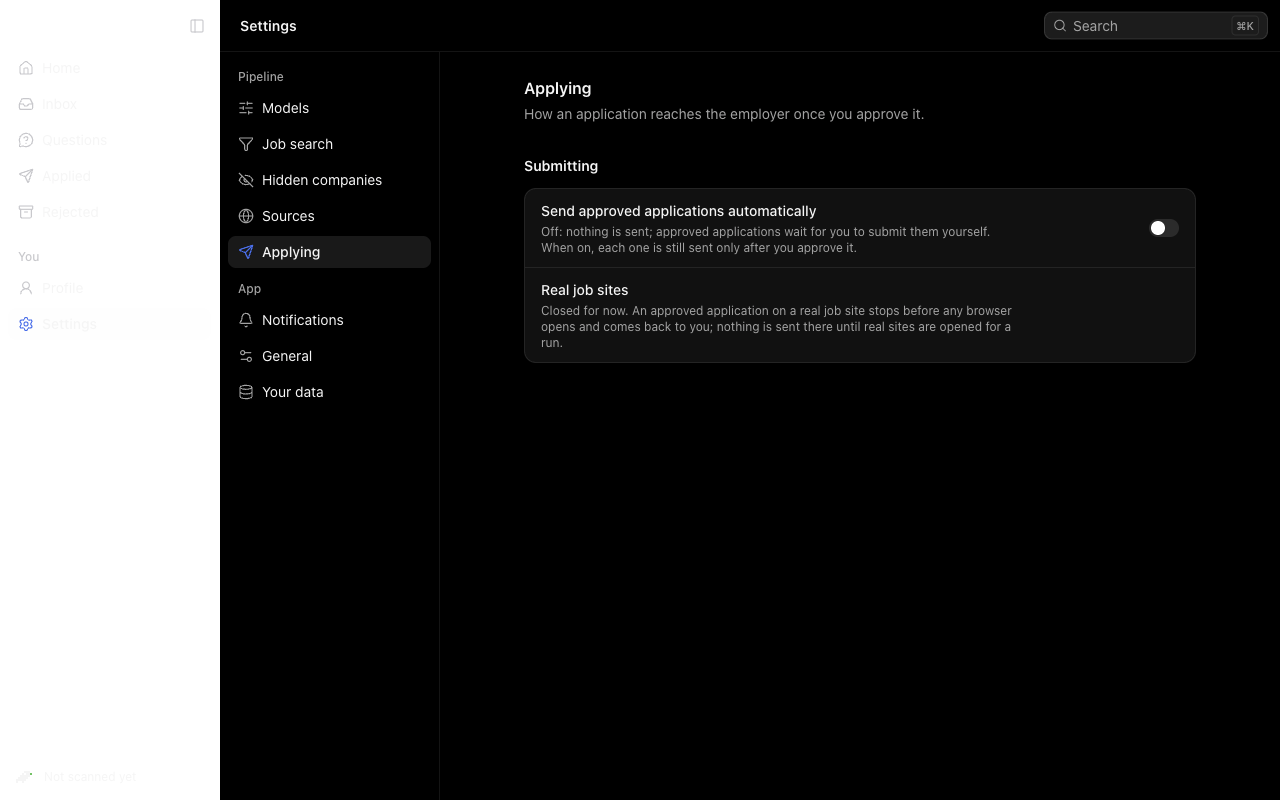
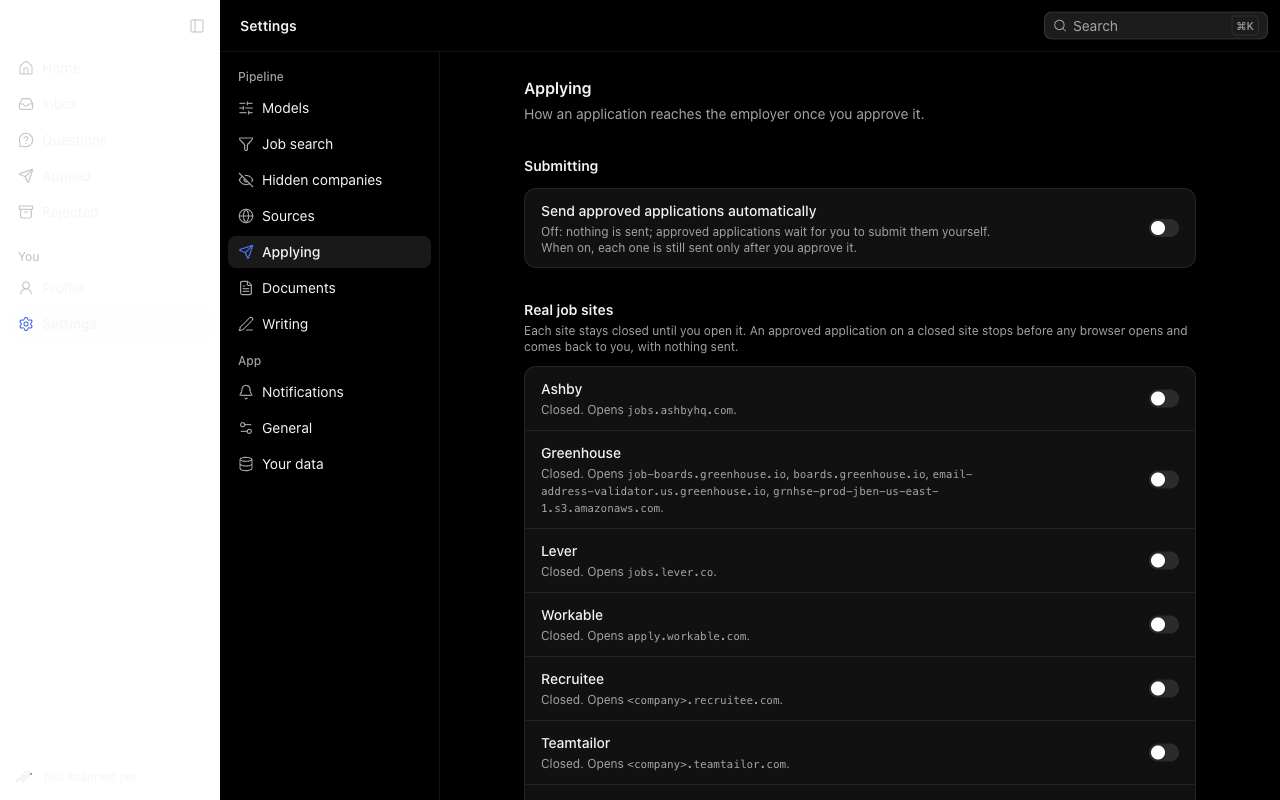
docs: record per-board opening of real job sites (plan step 8 preparation)

diff --git a/docs/decisions.md b/docs/decisions.md
@@ -1157,3 +1157,19 @@ form was submitted.
 | Retry, Got the email, I submitted this and "It didn't go through" name the attempt the page showed (`currentAttempt` on the application: the unresolved attempt, else the latest that is not a dry run; null when there is none). The db compares it under the application's lock in the same transaction that resolves or retries, and changes only that attempt; a different one is refused with "This changed since you opened it; look again." (`StaleAttemptError`, a 409), and the page reads again with the box unticked. The router folds the attempt into the idempotency key, so the same click delivered twice is one action and a key reused for another attempt is not a repeat | A delayed confirmation resolved whichever attempt was unresolved by then: one meant for attempt 1 marked attempt 2 not sent and sent it back to applying, and a stale Got the email marked a newer attempt submitted |
 | Finish it yourself and the hand-off's link no longer hand main a URL. The page asks to open "the form for application X, attempt N" (`desktop.openApplicationForm`); the worker (`worker/links.ts`) resolves the stored form for the session's user (the attempt's URL, else the form the hand-off names), and db `formLinkAttempt` checks under the lock that the application is approved or stopped, that N is still the current attempt, and that a click on it that may have sent the application (sent, check your email; outcome unknown) was recorded as not gone through first; main opens only an http(s) link. Ticking "It didn't go through" and pressing Finish it yourself records it (`submission.confirmNotSent`, the attempt becomes not sent) before the form opens; the stop sheet then reads "It didn't go through" (`confirmed_not_sent`: Finish it yourself, I submitted this, Retry). So the sent attempt is recorded not sent when Finish it yourself opens the form, not later at I submitted this (`markSubmitted` `confirmedNotSent` still covers a click with nothing recorded). Refusals reach the page in the worker's words (the preload drops Electron's "Error invoking remote method" prefix for these two calls). e2e: `web-sent.spec.ts` "It didn't go through, then Finish it yourself" | The check lived only in the renderer: `openExternal(url)` opened any http(s) URL the page named. Supersedes, in step 7, the unknown outcome's plain Finish it yourself (now behind the same confirmation as Retry) and "opens the form with `shell.openExternal`" from the page |
 | The general `openExternal` bridge call is gone. Its callers now name stored data: the posting from the action bar's More menu, ⌘K "Open the posting" and the Inbox row's menu (`desktop.openPosting(applicationId)`, the worker resolves the job's link); the stop sheet's Finish it yourself (above). The posting links in the application header and beside a document, and the inspector's form link, were `<a href>` links that main's link guard opened; they now use the same two calls. Main still opens fixed system pages itself (login items, notification settings, Google's sign-in page from the worker) | No call from the page opens a URL it names. Links inside rendered Markdown (a posting's text, chat) still open through main's link guard (`guardLinks`, any http(s) link, refused in try-it mode): a known gap, not narrowed here because those links are the content itself |
+
+## 2026-11-09: Real job sites open one by one in Settings (auto-apply plan, step 8 preparation)
+
+The first real, watched submission (plan step 8) will be on a Greenhouse job the user picks. Until
+now the desktop pinned `SUBMIT_ALLOWED_HOSTS` to `""`, so every real board stopped before a browser
+opened. Built and checked on fixtures and stubs only (fabricated data); no real site was contacted.
+
+| Decision | Why |
+|---|---|
+| Settings › Applying lists "Real job sites": Ashby, Greenhouse, Lever, Workable, Recruitee, Teamtailor, Personio and "Employers' own forms", each closed by default, each row showing the hosts it opens: the board's form host and its `formHosts` (`<company>.recruitee.com` for the company-subdomain boards), and for employers' forms "the form's own site only". Opening one shows a confirmation with that board's known risks (core `apply/open-boards.ts` `BOARD_RISKS`, from docs/form-inspection.md: invisible reCAPTCHA Enterprise on Greenhouse and Ashby, Ashby's unknown upload host and its typed-value saves; hCaptcha and Cloudflare on Lever; Turnstile with no recorded site key on Workable and Personio; Recruitee's unrecorded hCaptcha key; Teamtailor and Personio ending as unknown outcomes; employers' forms ending "Sent — check your email"). Closing is immediate. Screenshots: `docs/screenshots/desktop/real-sites.png`, `real-site-confirm.png` | The user's choice of a per-board switch, so the first real run opens exactly one board |
+| Stored in `submission_boards` (user, board; one row per opened board, no row is closed), an additive migration (`20261109130010_submission_boards`). `submission.setBoardOpen` (board limited to the seven boards and `web`) is idempotent: opening an open board or closing a closed one changes nothing, and it wakes nothing | A closed board's stopped application is retried by the user, so nothing is sent just because a site was opened |
+| The board's state is read with each run (`SubmissionContext.boardOpened`, loaded by db `submissionContext`). A run's allowed form hosts are 127.0.0.1 and localhost (the fixtures, always) plus, only when this run's board is opened, that board's exact form host for this job: the fixed host (`jobs.ashbyhq.com`, `job-boards.greenhouse.io`, `jobs.lever.co`, `apply.workable.com`), or `<company key>.recruitee.com`, `.teamtailor.com`, `.jobs.personio.de` built from the same table as the form URL (`forms.ts` `FORM_HOST`, `boardFormHost`). The company key must be one DNS label, else no host is allowed (a key like `evil.com#` would otherwise make the URL's host another site). An employer's form gets its page's exact host (`webFormHost`), as before. Never another opened board's host, never a wildcard. The board's `formHosts` and asset rules join in the session as before (`sessionHosts`) | One table for the URL and the allowlist, so they cannot drift; one board per run |
+| The desktop no longer sets `SUBMIT_ALLOWED_HOSTS`; `ModelConfig` keeps it for other runtimes | Superseded by the per-board setting. Supersedes, in "Approved applications submit automatically", "Real board hosts still need `SUBMIT_ALLOWED_HOSTS`, which the desktop leaves empty", and in "A switch for automatic submissions in Settings", the row calling the "real job sites stay closed" copy fixed: the confirmation now says real job sites stay closed until you open each one below |
+| A run on a closed board stops before anything is prepared or any browser opens: "Greenhouse isn't opened in Settings › Applying. Nothing was submitted." ("Employers' own forms aren't opened …" for `web`), `proof.stop: "host_not_allowed"`. The host check after preparing stays (an employer's form opens where its read landed). The stop sheet's case is "This job site isn't opened yet", with a link "Open it in Settings › Applying" and Retry (while the site is closed, Retry stops there again); older attempts with the `(SUBMIT_ALLOWED_HOSTS)` sentence read the same | The user can open the site and retry without finishing it by hand |
+| The form read before review uses the same per-run hosts: on a closed board it is skipped with "The form was not read before review: Greenhouse isn't opened in Settings › Applying. Open it there, then Read the form again." An employer's form read is skipped while employers' forms are closed, so at approval it becomes a hand-off (`submissionModeAfterRead`, no field list); opening it and Read the form again lets it be sent | A form is never read where it could not be submitted |
+| Unchanged: the main "Send approved applications automatically" switch gates every run, the claim before the click reads it again, the dry run keeps its closed network and needs no host check, and the fixture path (`APPLY_BOARD_BASES` on 127.0.0.1) runs whatever is opened. Closing a board during a run does not stop that run; the next run reads it | The pause is the stop for a run in progress |

diff --git a/docs/auto-apply-plan.md b/docs/auto-apply-plan.md
@@ -80,7 +80,7 @@ prepare ──► read form ──► draft field answers ──► claims check
 | 5 | Inspect and add SmartRecruiters, Workable, Recruitee, Teamtailor, Personio (one fixture + config each) | Each fills its fixture and one real dry run | Done 2026-11-09: Workable, Recruitee, Teamtailor and Personio are auto; SmartRecruiters stays hand-off (DataDome CAPTCHA before the form) |
 | 6 | Generic web form path: AI field matching over the plan, multi-page, outcome reader | Three fixture sites (single page, multi-step, with an unknown field) pass; one real employer form dry-runs | Done 2026-11-09 on fixtures (single page, two-step, unknown field, login wall, code, ambiguous and stay-on-page confirmations, upload and frame on another site); the board is also read from a job's apply link (`form-target.ts`). No real employer form dry-run yet (`test:live` reads board URLs only). Decisions in decisions.md. The outcome reader is evidence only since 2026-11-09: an employer's form ends "Sent — check your email" after its click |
 | 7 | Proof on the application page and in Applied; stop sheet with "finish it yourself" (opens the form in a visible window, answers ready to copy) | e2e: proof visible after a fixture submission; a fixture challenge ends in the sheet | Done 2026-11-09 on fixtures (`apps/desktop/e2e/apply-proof.spec.ts`): proof with every step's screenshots, the stop sheet with Finish it yourself, Read the form again, Approve held on an empty required field. Screenshots in docs/screenshots/desktop (apply-proof, stop-sheet). Decisions in decisions.md. Employer forms end "Sent — check your email" with Got the email (2026-11-09, `apps/desktop/e2e/web-sent.spec.ts`, docs/screenshots/desktop/web-sent.png) |
-| 8 | First real submission: the user picks and watches one posting; then one per board. Submissions start paused: the user turns them on in Settings › Applying (switch with a confirmation, 2026-11-09); real hosts still need opening for the run, and the switch's "real job sites stay closed" copy changes with them | Board confirmation stored, user confirms the email arrived | depends on the user's picks |
+| 8 | First real submission: the user picks and watches one posting (a Greenhouse job, the user's choice); then one per board. Submissions start paused: the user turns them on in Settings › Applying (switch with a confirmation, 2026-11-09). Real job sites open one by one in the same page ("Real job sites", each closed by default, with its hosts and a confirmation naming its risks; 2026-11-09, decisions.md): a run opens only its own board's exact form host, and a closed board stops before any browser opens | Board confirmation stored, user confirms the email arrived | Prepared 2026-11-09 (per-board opening, on fixtures and stubs); the watched run depends on the user's pick |
 
 Total: about 8 to 10 working days, unknown beyond that if real forms differ a lot from the
 2026-10-30 inspection.
